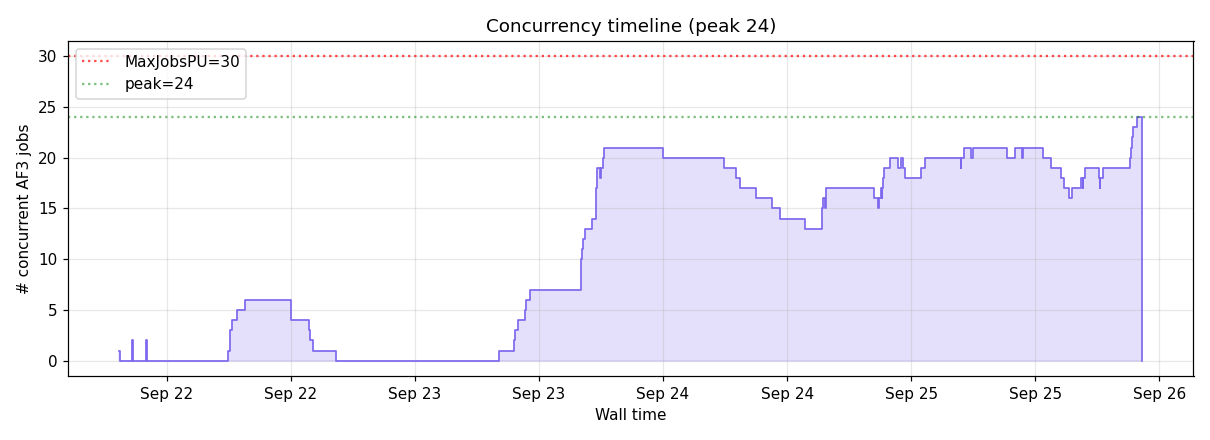
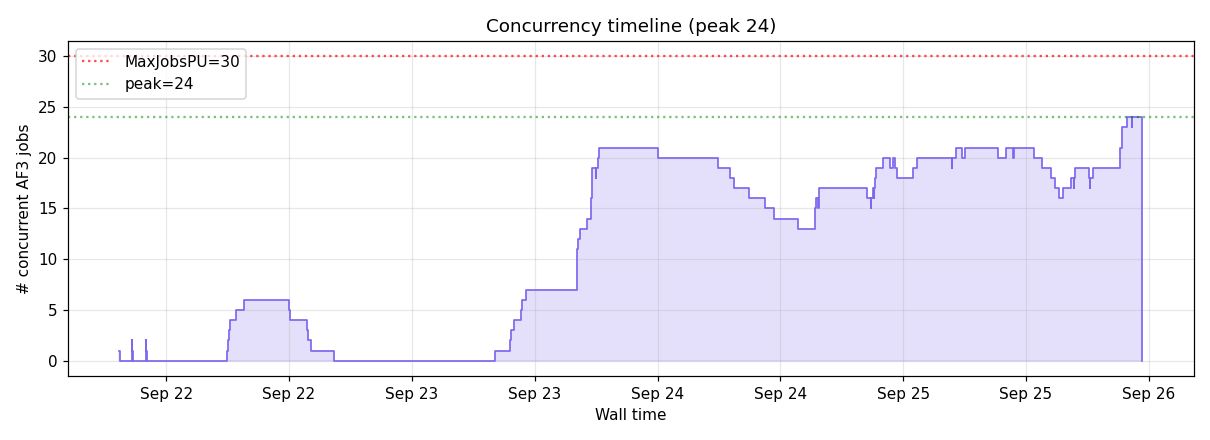
auto: 2026-09-25 23:21:29

diff --git a/index.html b/index.html
@@ -24,29 +24,29 @@ tr:nth-child(even) { background: #fafafa; }
 </style>
 </head><body>
 <h1>AF3 Campaign Dashboard</h1>
-<p class="stamp">Last updated: <strong>2026-09-25 22:20 EDT</strong> · regenerated on the cluster hourly · this page auto-reloads every 30 min</p>
+<p class="stamp">Last updated: <strong>2026-09-25 23:21 EDT</strong> · regenerated on the cluster hourly · this page auto-reloads every 30 min</p>
 
 <div class="cards">
-  <div class="card"><div class="v">1,969</div><div class="l">Total COMPLETED pairs</div></div>
-  <div class="card"><div class="v">888</div><div class="l">Done today</div></div>
-  <div class="card"><div class="v">929</div><div class="l">Last 24 h rate</div></div>
-  <div class="card"><div class="v">25 / 72</div><div class="l">Running / Pending now</div></div>
+  <div class="card"><div class="v">1,994</div><div class="l">Total COMPLETED pairs</div></div>
+  <div class="card"><div class="v">913</div><div class="l">Done today</div></div>
+  <div class="card"><div class="v">928</div><div class="l">Last 24 h rate</div></div>
+  <div class="card"><div class="v">24 / 72</div><div class="l">Running / Pending now</div></div>
 </div>
 
 <h2>Live queue</h2>
 <div class="plots">
   <div>
-    <h3>RUNNING (25)</h3>
+    <h3>RUNNING (24)</h3>
     <div class="queue-table">
       <table><thead><tr><th>Job</th><th>Elapsed</th><th>Left</th><th>Reason / Node</th></tr></thead>
-      <tbody><tr><td>af3_p085_b003</td><td>0:01</td><td>23:59:59</td><td>alphagpu52</td></tr><tr><td>af3_p085_b002</td><td>30:24</td><td>23:29:36</td><td>alphagpu54</td></tr><tr><td>af3_p085_b001</td><td>56:04</td><td>23:03:56</td><td>alphagpu54</td></tr><tr><td>af3_p083_b003</td><td>58:38</td><td>23:01:22</td><td>alphagpu54</td></tr><tr><td>af3_p083_b002</td><td>1:07:21</td><td>22:52:39</td><td>alphagpu52</td></tr><tr><td>af3_p083_b001</td><td>1:09:24</td><td>22:50:36</td><td>alphagpu53</td></tr><tr><td>af3_p061_b002</td><td>16:20:44</td><td>1-07:39:16</td><td>alphagpu51</td></tr><tr><td>af3_p061_b001</td><td>17:14:09</td><td>1-06:45:51</td><td>alphagpu53</td></tr><tr><td>af3_p060_b002</td><td>17:33:52</td><td>1-06:26:08</td><td>alphagpu51</td></tr><tr><td>af3_p060_b001</td><td>21:02:42</td><td>1-02:57:18</td><td>alphagpu53</td></tr><tr><td>af3_p059_b001</td><td>23:21:22</td><td>1-00:38:38</td><td>alphagpu52</td></tr><tr><td>af3_p058_b001</td><td>1-00:59:18</td><td>23:00:42</td><td>alphagpu53</td></tr><tr><td>af3_p057_b001</td><td>1-01:12:09</td><td>22:47:51</td><td>alphagpu53</td></tr><tr><td>af3_p056_b001</td><td>1-01:26:50</td><td>22:33:10</td><td>alphagpu53</td></tr><tr><td>af3_p054_b001</td><td>1-06:49:43</td><td>17:10:17</td><td>alphagpu52</td></tr><tr><td>af3_p053_b001</td><td>1-06:59:26</td><td>17:00:34</td><td>alphagpu53</td></tr><tr><td>af3_p065_b002</td><td>3:46:21</td><td>1-20:13:39</td><td>alphagpu54</td></tr><tr><td>af3_p065_b001</td><td>4:04:54</td><td>1-19:55:06</td><td>alphagpu52</td></tr><tr><td>af3_p064_b002</td><td>5:32:09</td><td>1-18:27:51</td><td>alphagpu53</td></tr><tr><td>af3_p064_b001</td><td>5:41:47</td><td>1-18:18:13</td><td>alphagpu54</td></tr><tr><td>af3_p063_b002</td><td>5:57:00</td><td>1-18:03:00</td><td>alphagpu51</td></tr><tr><td>af3_p063_b001</td><td>6:46:11</td><td>1-17:13:49</td><td>alphagpu51</td></tr><tr><td>af3_p062_b002</td><td>11:34:07</td><td>1-12:25:53</td><td>alphagpu51</td></tr><tr><td>af3_p062_b001</td><td>12:17:38</td><td>1-11:42:22</td><td>alphagpu54</td></tr><tr><td>af3_retro_score</td><td>1:59:24</td><td>10:00:36</td><td>betagg53</td></tr></tbody></table>
+      <tbody><tr><td>af3_p085_b003</td><td>1:00:39</td><td>22:59:21</td><td>alphagpu52</td></tr><tr><td>af3_p085_b002</td><td>1:31:02</td><td>22:28:58</td><td>alphagpu54</td></tr><tr><td>af3_p085_b001</td><td>1:56:42</td><td>22:03:18</td><td>alphagpu54</td></tr><tr><td>af3_p083_b003</td><td>1:59:16</td><td>22:00:44</td><td>alphagpu54</td></tr><tr><td>af3_p083_b002</td><td>2:07:59</td><td>21:52:01</td><td>alphagpu52</td></tr><tr><td>af3_p083_b001</td><td>2:10:02</td><td>21:49:58</td><td>alphagpu53</td></tr><tr><td>af3_p061_b002</td><td>17:21:22</td><td>1-06:38:38</td><td>alphagpu51</td></tr><tr><td>af3_p061_b001</td><td>18:14:47</td><td>1-05:45:13</td><td>alphagpu53</td></tr><tr><td>af3_p060_b002</td><td>18:34:30</td><td>1-05:25:30</td><td>alphagpu51</td></tr><tr><td>af3_p060_b001</td><td>22:03:20</td><td>1-01:56:40</td><td>alphagpu53</td></tr><tr><td>af3_p059_b001</td><td>1-00:22:00</td><td>23:38:00</td><td>alphagpu52</td></tr><tr><td>af3_p058_b001</td><td>1-01:59:56</td><td>22:00:04</td><td>alphagpu53</td></tr><tr><td>af3_p057_b001</td><td>1-02:12:47</td><td>21:47:13</td><td>alphagpu53</td></tr><tr><td>af3_p056_b001</td><td>1-02:27:28</td><td>21:32:32</td><td>alphagpu53</td></tr><tr><td>af3_p054_b001</td><td>1-07:50:21</td><td>16:09:39</td><td>alphagpu52</td></tr><tr><td>af3_p053_b001</td><td>1-08:00:04</td><td>15:59:56</td><td>alphagpu53</td></tr><tr><td>af3_p065_b002</td><td>4:46:59</td><td>1-19:13:01</td><td>alphagpu54</td></tr><tr><td>af3_p065_b001</td><td>5:05:32</td><td>1-18:54:28</td><td>alphagpu52</td></tr><tr><td>af3_p064_b002</td><td>6:32:47</td><td>1-17:27:13</td><td>alphagpu53</td></tr><tr><td>af3_p064_b001</td><td>6:42:25</td><td>1-17:17:35</td><td>alphagpu54</td></tr><tr><td>af3_p063_b002</td><td>6:57:38</td><td>1-17:02:22</td><td>alphagpu51</td></tr><tr><td>af3_p063_b001</td><td>7:46:49</td><td>1-16:13:11</td><td>alphagpu51</td></tr><tr><td>af3_p062_b002</td><td>12:34:45</td><td>1-11:25:15</td><td>alphagpu51</td></tr><tr><td>af3_p062_b001</td><td>13:18:16</td><td>1-10:41:44</td><td>alphagpu54</td></tr></tbody></table>
     </div>
   </div>
   <div>
     <h3>PENDING (72)</h3>
     <div class="queue-table">
       <table><thead><tr><th>Job</th><th>Wait</th><th>Limit</th><th>Reason</th></tr></thead>
-      <tbody><tr><td>af3_p090_b003</td><td>0:00</td><td>1-00:00:00</td><td>(Priority)</td></tr><tr><td>af3_p090_b002</td><td>0:00</td><td>1-00:00:00</td><td>(Priority)</td></tr><tr><td>af3_p090_b001</td><td>0:00</td><td>1-00:00:00</td><td>(Priority)</td></tr><tr><td>af3_p092_b003</td><td>0:00</td><td>1-00:00:00</td><td>(Priority)</td></tr><tr><td>af3_p092_b002</td><td>0:00</td><td>1-00:00:00</td><td>(Priority)</td></tr><tr><td>af3_p092_b001</td><td>0:00</td><td>1-00:00:00</td><td>(Priority)</td></tr><tr><td>af3_p091_b003</td><td>0:00</td><td>1-00:00:00</td><td>(Priority)</td></tr><tr><td>af3_p091_b002</td><td>0:00</td><td>1-00:00:00</td><td>(Priority)</td></tr><tr><td>af3_p091_b001</td><td>0:00</td><td>1-00:00:00</td><td>(Priority)</td></tr><tr><td>af3_p094_b003</td><td>0:00</td><td>1-00:00:00</td><td>(Priority)</td></tr><tr><td>af3_p094_b002</td><td>0:00</td><td>1-00:00:00</td><td>(Priority)</td></tr><tr><td>af3_p094_b001</td><td>0:00</td><td>1-00:00:00</td><td>(Priority)</td></tr><tr><td>af3_p093_b003</td><td>0:00</td><td>1-00:00:00</td><td>(Priority)</td></tr><tr><td>af3_p093_b002</td><td>0:00</td><td>1-00:00:00</td><td>(Priority)</td></tr><tr><td>af3_p093_b001</td><td>0:00</td><td>1-00:00:00</td><td>(Priority)</td></tr><tr><td>af3_p096_b003</td><td>0:00</td><td>1-00:00:00</td><td>(Priority)</td></tr><tr><td>af3_p096_b002</td><td>0:00</td><td>1-00:00:00</td><td>(Priority)</td></tr><tr><td>af3_p096_b001</td><td>0:00</td><td>1-00:00:00</td><td>(Priority)</td></tr><tr><td>af3_p095_b003</td><td>0:00</td><td>1-00:00:00</td><td>(Priority)</td></tr><tr><td>af3_p095_b002</td><td>0:00</td><td>1-00:00:00</td><td>(Priority)</td></tr><tr><td>af3_p095_b001</td><td>0:00</td><td>1-00:00:00</td><td>(Priority)</td></tr><tr><td>af3_p098_b003</td><td>0:00</td><td>1-00:00:00</td><td>(Priority)</td></tr><tr><td>af3_p098_b002</td><td>0:00</td><td>1-00:00:00</td><td>(Priority)</td></tr><tr><td>af3_p098_b001</td><td>0:00</td><td>1-00:00:00</td><td>(Priority)</td></tr><tr><td>af3_p097_b003</td><td>0:00</td><td>1-00:00:00</td><td>(Priority)</td></tr><tr><td>af3_p097_b002</td><td>0:00</td><td>1-00:00:00</td><td>(Priority)</td></tr><tr><td>af3_p097_b001</td><td>0:00</td><td>1-00:00:00</td><td>(Priority)</td></tr><tr><td>af3_p099_b001</td><td>0:00</td><td>1-00:00:00</td><td>(Priority)</td></tr><tr><td>af3_p100_b003</td><td>0:00</td><td>1-00:00:00</td><td>(Priority)</td></tr><tr><td>af3_p100_b002</td><td>0:00</td><td>1-00:00:00</td><td>(Priority)</td></tr><tr><td>af3_p100_b001</td><td>0:00</td><td>1-00:00:00</td><td>(Priority)</td></tr><tr><td>af3_p099_b003</td><td>0:00</td><td>1-00:00:00</td><td>(Priority)</td></tr><tr><td>af3_p099_b002</td><td>0:00</td><td>1-00:00:00</td><td>(Priority)</td></tr><tr><td>af3_p102_b003</td><td>0:00</td><td>1-00:00:00</td><td>(Priority)</td></tr><tr><td>af3_p102_b002</td><td>0:00</td><td>1-00:00:00</td><td>(Priority)</td></tr><tr><td>af3_p102_b001</td><td>0:00</td><td>1-00:00:00</td><td>(Priority)</td></tr><tr><td>af3_p101_b003</td><td>0:00</td><td>1-00:00:00</td><td>(Priority)</td></tr><tr><td>af3_p101_b002</td><td>0:00</td><td>1-00:00:00</td><td>(Priority)</td></tr><tr><td>af3_p101_b001</td><td>0:00</td><td>1-00:00:00</td><td>(Priority)</td></tr><tr><td>af3_p103_b003</td><td>0:00</td><td>1-00:00:00</td><td>(Priority)</td></tr><tr><td>af3_p103_b002</td><td>0:00</td><td>1-00:00:00</td><td>(Priority)</td></tr><tr><td>af3_p103_b001</td><td>0:00</td><td>1-00:00:00</td><td>(Priority)</td></tr><tr><td>af3_p068_b002</td><td>0:00</td><td>2-00:00:00</td><td>(Priority)</td></tr><tr><td>af3_p068_b001</td><td>0:00</td><td>2-00:00:00</td><td>(Priority)</td></tr><tr><td>af3_p067_b002</td><td>0:00</td><td>2-00:00:00</td><td>(Priority)</td></tr><tr><td>af3_p067_b001</td><td>0:00</td><td>2-00:00:00</td><td>(Priority)</td></tr><tr><td>af3_p066_b002</td><td>0:00</td><td>2-00:00:00</td><td>(Priority)</td></tr><tr><td>af3_p066_b001</td><td>0:00</td><td>2-00:00:00</td><td>(Priority)</td></tr><tr><td>af3_p078_b002</td><td>0:00</td><td>2-00:00:00</td><td>(Priority)</td></tr><tr><td>af3_p078_b001</td><td>0:00</td><td>2-00:00:00</td><td>(Priority)</td></tr><tr><td>af3_p077_b002</td><td>0:00</td><td>2-00:00:00</td><td>(Priority)</td></tr><tr><td>af3_p077_b001</td><td>0:00</td><td>2-00:00:00</td><td>(Priority)</td></tr><tr><td>af3_p076_b002</td><td>0:00</td><td>2-00:00:00</td><td>(Priority)</td></tr><tr><td>af3_p076_b001</td><td>0:00</td><td>2-00:00:00</td><td>(Priority)</td></tr><tr><td>af3_p075_b002</td><td>0:00</td><td>2-00:00:00</td><td>(Priority)</td></tr><tr><td>af3_p075_b001</td><td>0:00</td><td>2-00:00:00</td><td>(Priority)</td></tr><tr><td>af3_p074_b002</td><td>0:00</td><td>2-00:00:00</td><td>(Priority)</td></tr><tr><td>af3_p074_b001</td><td>0:00</td><td>2-00:00:00</td><td>(Priority)</td></tr><tr><td>af3_p073_b002</td><td>0:00</td><td>2-00:00:00</td><td>(Priority)</td></tr><tr><td>af3_p073_b001</td><td>0:00</td><td>2-00:00:00</td><td>(Priority)</td></tr><tr><td>af3_p072_b002</td><td>0:00</td><td>2-00:00:00</td><td>(Priority)</td></tr><tr><td>af3_p072_b001</td><td>0:00</td><td>2-00:00:00</td><td>(Priority)</td></tr><tr><td>af3_p071_b002</td><td>0:00</td><td>2-00:00:00</td><td>(Priority)</td></tr><tr><td>af3_p071_b001</td><td>0:00</td><td>2-00:00:00</td><td>(Priority)</td></tr><tr><td>af3_p070_b002</td><td>0:00</td><td>2-00:00:00</td><td>(Priority)</td></tr><tr><td>af3_p070_b001</td><td>0:00</td><td>2-00:00:00</td><td>(Priority)</td></tr><tr><td>af3_p069_b002</td><td>0:00</td><td>2-00:00:00</td><td>(Priority)</td></tr><tr><td>af3_p069_b001</td><td>0:00</td><td>2-00:00:00</td><td>(Priority)</td></tr><tr><td>af3_p080_b002</td><td>0:00</td><td>2-00:00:00</td><td>(Priority)</td></tr><tr><td>af3_p080_b001</td><td>0:00</td><td>2-00:00:00</td><td>(Priority)</td></tr><tr><td>af3_p082_b002</td><td>0:00</td><td>2-00:00:00</td><td>(Priority)</td></tr><tr><td>af3_p082_b001</td><td>0:00</td><td>2-00:00:00</td><td>(Priority)</td></tr></tbody></table>
+      <tbody><tr><td>af3_p090_b002</td><td>0:00</td><td>1-00:00:00</td><td>(Priority)</td></tr><tr><td>af3_p090_b001</td><td>0:00</td><td>1-00:00:00</td><td>(Priority)</td></tr><tr><td>af3_p091_b003</td><td>0:00</td><td>1-00:00:00</td><td>(Priority)</td></tr><tr><td>af3_p091_b002</td><td>0:00</td><td>1-00:00:00</td><td>(Priority)</td></tr><tr><td>af3_p091_b001</td><td>0:00</td><td>1-00:00:00</td><td>(Priority)</td></tr><tr><td>af3_p090_b003</td><td>0:00</td><td>1-00:00:00</td><td>(Priority)</td></tr><tr><td>af3_p093_b003</td><td>0:00</td><td>1-00:00:00</td><td>(Priority)</td></tr><tr><td>af3_p093_b002</td><td>0:00</td><td>1-00:00:00</td><td>(Priority)</td></tr><tr><td>af3_p093_b001</td><td>0:00</td><td>1-00:00:00</td><td>(Priority)</td></tr><tr><td>af3_p092_b003</td><td>0:00</td><td>1-00:00:00</td><td>(Priority)</td></tr><tr><td>af3_p092_b002</td><td>0:00</td><td>1-00:00:00</td><td>(Priority)</td></tr><tr><td>af3_p092_b001</td><td>0:00</td><td>1-00:00:00</td><td>(Priority)</td></tr><tr><td>af3_p096_b001</td><td>0:00</td><td>1-00:00:00</td><td>(Priority)</td></tr><tr><td>af3_p095_b003</td><td>0:00</td><td>1-00:00:00</td><td>(Priority)</td></tr><tr><td>af3_p095_b002</td><td>0:00</td><td>1-00:00:00</td><td>(Priority)</td></tr><tr><td>af3_p095_b001</td><td>0:00</td><td>1-00:00:00</td><td>(Priority)</td></tr><tr><td>af3_p094_b003</td><td>0:00</td><td>1-00:00:00</td><td>(Priority)</td></tr><tr><td>af3_p094_b002</td><td>0:00</td><td>1-00:00:00</td><td>(Priority)</td></tr><tr><td>af3_p094_b001</td><td>0:00</td><td>1-00:00:00</td><td>(Priority)</td></tr><tr><td>af3_p098_b003</td><td>0:00</td><td>1-00:00:00</td><td>(Priority)</td></tr><tr><td>af3_p098_b002</td><td>0:00</td><td>1-00:00:00</td><td>(Priority)</td></tr><tr><td>af3_p098_b001</td><td>0:00</td><td>1-00:00:00</td><td>(Priority)</td></tr><tr><td>af3_p097_b003</td><td>0:00</td><td>1-00:00:00</td><td>(Priority)</td></tr><tr><td>af3_p097_b002</td><td>0:00</td><td>1-00:00:00</td><td>(Priority)</td></tr><tr><td>af3_p097_b001</td><td>0:00</td><td>1-00:00:00</td><td>(Priority)</td></tr><tr><td>af3_p096_b003</td><td>0:00</td><td>1-00:00:00</td><td>(Priority)</td></tr><tr><td>af3_p096_b002</td><td>0:00</td><td>1-00:00:00</td><td>(Priority)</td></tr><tr><td>af3_p099_b001</td><td>0:00</td><td>1-00:00:00</td><td>(Priority)</td></tr><tr><td>af3_p100_b002</td><td>0:00</td><td>1-00:00:00</td><td>(Priority)</td></tr><tr><td>af3_p100_b001</td><td>0:00</td><td>1-00:00:00</td><td>(Priority)</td></tr><tr><td>af3_p099_b003</td><td>0:00</td><td>1-00:00:00</td><td>(Priority)</td></tr><tr><td>af3_p099_b002</td><td>0:00</td><td>1-00:00:00</td><td>(Priority)</td></tr><tr><td>af3_p101_b003</td><td>0:00</td><td>1-00:00:00</td><td>(Priority)</td></tr><tr><td>af3_p101_b002</td><td>0:00</td><td>1-00:00:00</td><td>(Priority)</td></tr><tr><td>af3_p101_b001</td><td>0:00</td><td>1-00:00:00</td><td>(Priority)</td></tr><tr><td>af3_p100_b003</td><td>0:00</td><td>1-00:00:00</td><td>(Priority)</td></tr><tr><td>af3_p103_b003</td><td>0:00</td><td>1-00:00:00</td><td>(Priority)</td></tr><tr><td>af3_p103_b002</td><td>0:00</td><td>1-00:00:00</td><td>(Priority)</td></tr><tr><td>af3_p103_b001</td><td>0:00</td><td>1-00:00:00</td><td>(Priority)</td></tr><tr><td>af3_p102_b003</td><td>0:00</td><td>1-00:00:00</td><td>(Priority)</td></tr><tr><td>af3_p102_b002</td><td>0:00</td><td>1-00:00:00</td><td>(Priority)</td></tr><tr><td>af3_p102_b001</td><td>0:00</td><td>1-00:00:00</td><td>(Priority)</td></tr><tr><td>af3_p066_b002</td><td>0:00</td><td>2-00:00:00</td><td>(Priority)</td></tr><tr><td>af3_p066_b001</td><td>0:00</td><td>2-00:00:00</td><td>(Priority)</td></tr><tr><td>af3_p078_b002</td><td>0:00</td><td>2-00:00:00</td><td>(Priority)</td></tr><tr><td>af3_p078_b001</td><td>0:00</td><td>2-00:00:00</td><td>(Priority)</td></tr><tr><td>af3_p077_b002</td><td>0:00</td><td>2-00:00:00</td><td>(Priority)</td></tr><tr><td>af3_p077_b001</td><td>0:00</td><td>2-00:00:00</td><td>(Priority)</td></tr><tr><td>af3_p076_b002</td><td>0:00</td><td>2-00:00:00</td><td>(Priority)</td></tr><tr><td>af3_p076_b001</td><td>0:00</td><td>2-00:00:00</td><td>(Priority)</td></tr><tr><td>af3_p075_b002</td><td>0:00</td><td>2-00:00:00</td><td>(Priority)</td></tr><tr><td>af3_p075_b001</td><td>0:00</td><td>2-00:00:00</td><td>(Priority)</td></tr><tr><td>af3_p074_b002</td><td>0:00</td><td>2-00:00:00</td><td>(Priority)</td></tr><tr><td>af3_p074_b001</td><td>0:00</td><td>2-00:00:00</td><td>(Priority)</td></tr><tr><td>af3_p073_b002</td><td>0:00</td><td>2-00:00:00</td><td>(Priority)</td></tr><tr><td>af3_p073_b001</td><td>0:00</td><td>2-00:00:00</td><td>(Priority)</td></tr><tr><td>af3_p072_b002</td><td>0:00</td><td>2-00:00:00</td><td>(Priority)</td></tr><tr><td>af3_p072_b001</td><td>0:00</td><td>2-00:00:00</td><td>(Priority)</td></tr><tr><td>af3_p071_b002</td><td>0:00</td><td>2-00:00:00</td><td>(Priority)</td></tr><tr><td>af3_p071_b001</td><td>0:00</td><td>2-00:00:00</td><td>(Priority)</td></tr><tr><td>af3_p070_b002</td><td>0:00</td><td>2-00:00:00</td><td>(Priority)</td></tr><tr><td>af3_p070_b001</td><td>0:00</td><td>2-00:00:00</td><td>(Priority)</td></tr><tr><td>af3_p069_b002</td><td>0:00</td><td>2-00:00:00</td><td>(Priority)</td></tr><tr><td>af3_p069_b001</td><td>0:00</td><td>2-00:00:00</td><td>(Priority)</td></tr><tr><td>af3_p068_b002</td><td>0:00</td><td>2-00:00:00</td><td>(Priority)</td></tr><tr><td>af3_p068_b001</td><td>0:00</td><td>2-00:00:00</td><td>(Priority)</td></tr><tr><td>af3_p067_b002</td><td>0:00</td><td>2-00:00:00</td><td>(Priority)</td></tr><tr><td>af3_p067_b001</td><td>0:00</td><td>2-00:00:00</td><td>(Priority)</td></tr><tr><td>af3_p082_b002</td><td>0:00</td><td>2-00:00:00</td><td>(Priority)</td></tr><tr><td>af3_p082_b001</td><td>0:00</td><td>2-00:00:00</td><td>(Priority)</td></tr><tr><td>af3_p080_b002</td><td>0:00</td><td>2-00:00:00</td><td>(Priority)</td></tr><tr><td>af3_p080_b001</td><td>0:00</td><td>2-00:00:00</td><td>(Priority)</td></tr></tbody></table>
     </div>
   </div>
 </div>
